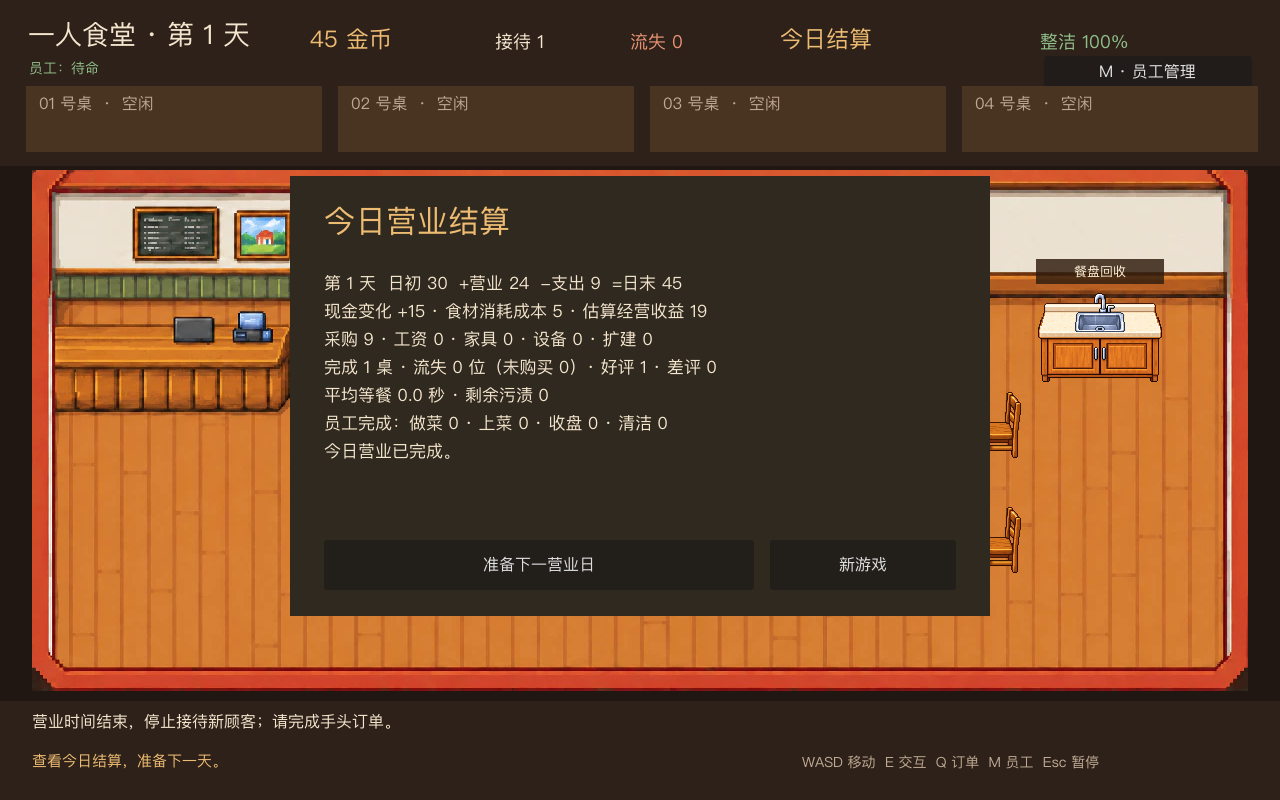
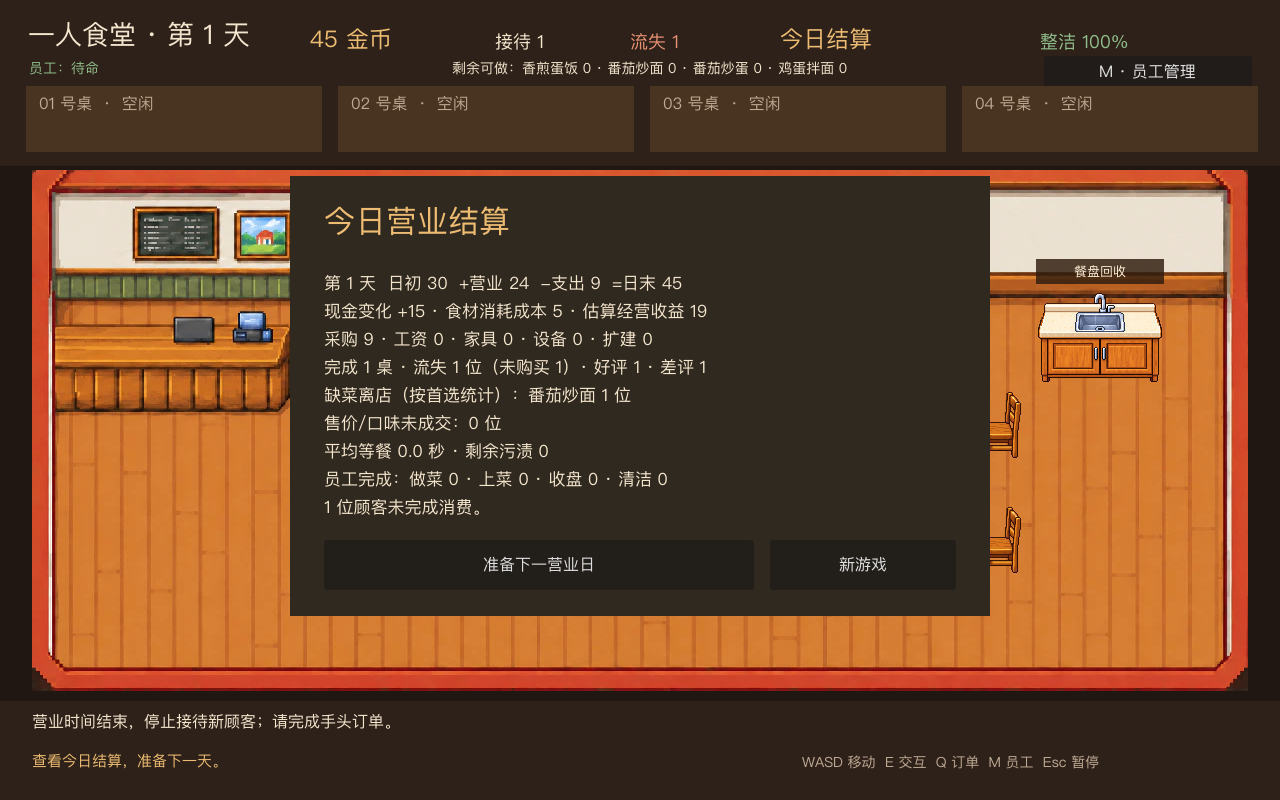
Report unmet first-choice dishes and live menu capacity

Changed region(s): [[0.25, 0.4375, 0.5625, 0.6562], [0.3438, 0.0625, 0.6562, 0.0938]]

diff --git a/docs/stage-4-2.md b/docs/stage-4-2.md
@@ -27,6 +27,8 @@
 
 库存、菜单与剩余食材跨营业日保留；当天订单预留在离店、取消或打烊清场时释放。食材采购是现金流出，食材消耗成本则是经营收益估计的一部分，日结分别展示，避免把囤货误判为当日亏损。
 
+营业画面顶部持续列出四道菜按未预留库存还能制作的份数。顾客因三道候选菜都无法成交而离开时，系统记录其第一选择。如果首选缺原料或已停售，日结按菜名分别统计离店人数；首选仍可供应但顾客未购买的情况归入“售价/口味未成交”，避免误报为缺菜。统计在下一营业日重置。
+
 ![含采购和食材成本的日结画面](stage-4-2-summary.webp)
 
 ## 验证
